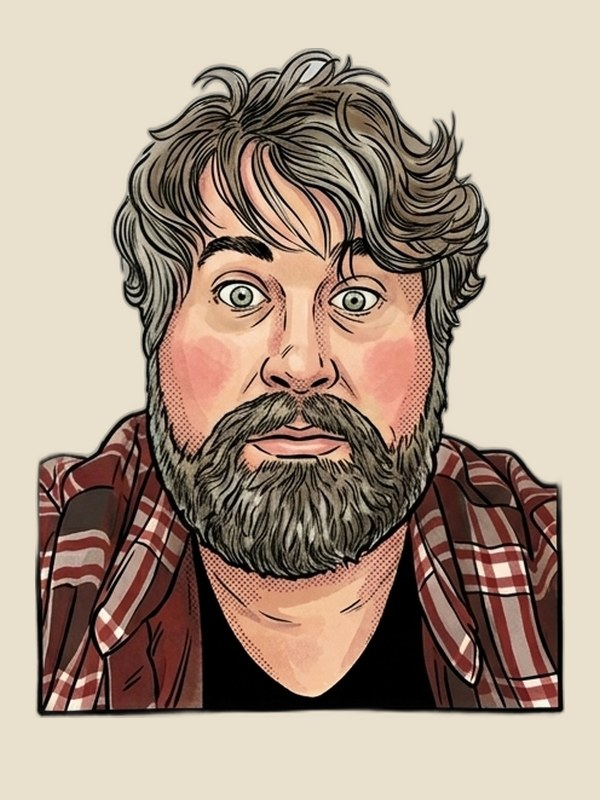
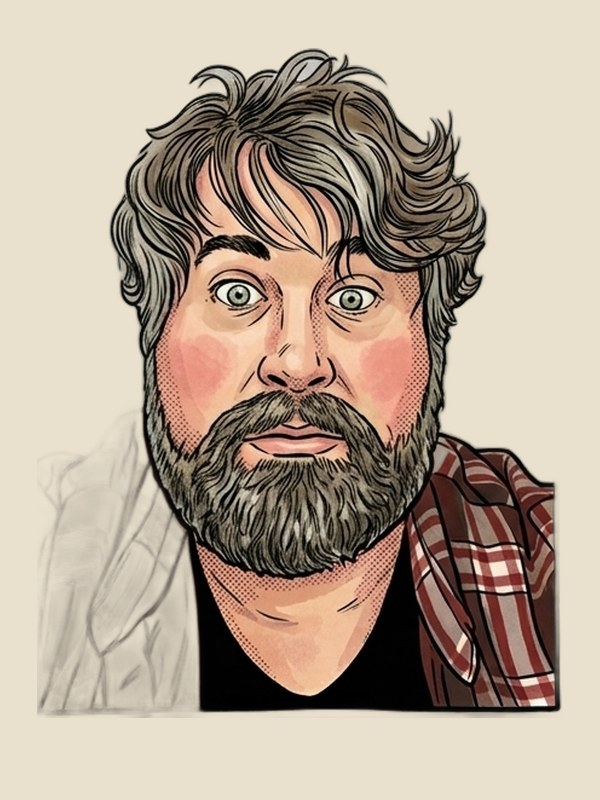
Porträts neu freigestellt (isnet) + Rahmen-Höhe vereinheitlicht
- bessere Freistellung mit isnet-general-use: Severins Hoodie und Lars' Jacke werden jetzt vollständig erfasst (u2net hatte Teile verschluckt)
- CSS: aspect-ratio auf dem Porträt-Bild erzwungen + height:auto -> alle Rahmen exakt gleich hoch (vorher schoss die intrinsische Bildhöhe durch)

diff --git a/css/style.css b/css/style.css
@@ -314,7 +314,8 @@ a { color: inherit; }
 }
 .card img.portrait {
   width: 100%;
-  height: 100%;
+  aspect-ratio: 3 / 4;   /* erzwingt einheitliche Höhe bei allen Karten */
+  height: auto;
   object-fit: cover;
   object-position: center;
   /* dezenter Vintage-Stich, damit die Comic-Porträts zur Holzschnitt-Welt passen */
